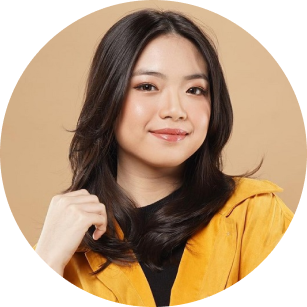
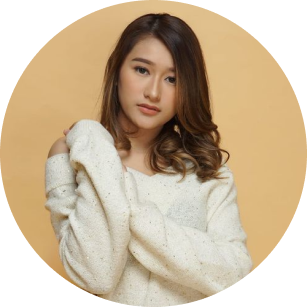
Revisi

diff --git a/event.html b/event.html
@@ -122,13 +122,12 @@
             <div class="guest-star-content">
               <div class="guest-description">
                 <p>
-                  There will be a special guest star in the main event. Now who
-                  would it be?
+                  We will invite Amanda Caesa to our main event, bringing her talents and voice to the event. Don't miss out on her performances!
                 </p>
               </div>
               <div class="guest-image">
-                <img src="./assets/guest.png" alt="guest image" />
-                <h2>?????</h2>
+                <img src="./assets/amanda.png" alt="guest image" />
+                <h2>Amanda Caesa</h2>
               </div>
             </div>
           </div>
@@ -201,7 +200,7 @@
                   <div class="expo-card" id="card-3">
                     <div class="expo-card-place-desc" id="card-desc-3">
                       <h2>SENAYAN</h2>
-                      <p>Senin, 11 Agustus 2024</p>
+                      <p>30 Agustus 2024</p>
                       <p>11:00 WIB</p>
                       <p>Binus @Senayan</p>
                     </div>
@@ -209,7 +208,7 @@
                   <div class="expo-card" id="card-4">
                     <div class="expo-card-place-desc" id="card-desc-4">
                       <h2>SEMARANG</h2>
-                      <p>Senin, 11 Agustus 2024</p>
+                      <p>26 - 27 Agustus 2024</p>
                       <p>11:00 WIB</p>
                       <p>Binus @Semarang</p>
                     </div>

diff --git a/index.html b/index.html
@@ -102,7 +102,7 @@
           <h1>FAQ</h1>
           <div class="faq-container">
             <div class="faq-category">
-              <h2>Kategori</h2>
+              <h2>Categories</h2>
               <ul>
                 <li data-category="techno" class="active">Techno</li>
                 <li data-category="pbp">
@@ -305,7 +305,14 @@
                     <span>@techno.himti</span>
                   </div>
                 </a>
+                <a href="mailto:himtitechno24@gmail.com" target="_blank">
+                    <div class="social-media-item">
+                        <i class="fas fa-envelope"></i>
+                        <span>himtitechno24@gmail.com</span>
+                    </div>
+                </a>
               </div>
+              
             </div>
           </div>
         </section>

diff --git a/home.css b/home.css
@@ -625,7 +625,7 @@ h2 {
 .sponsor-list, .dewaweb {
   display: block;
   margin: 0 auto;
-  max-width: 80%; 
+  max-width: 90%; 
 }
 
 .dewaweb {
